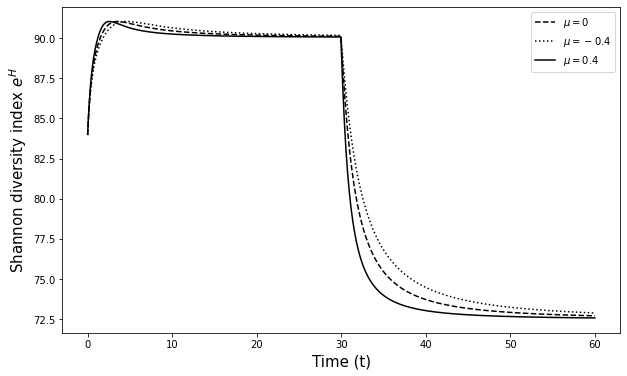
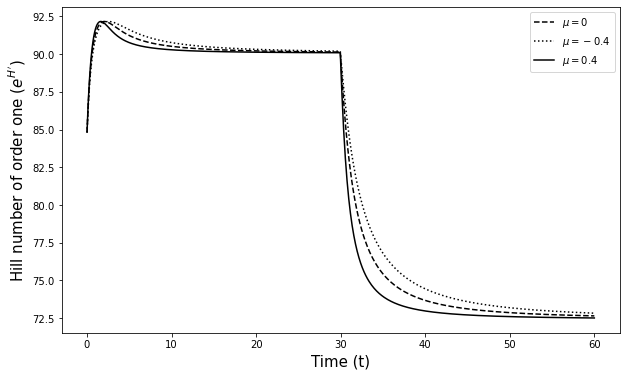
additional_file: figure10

diff --git a/Code/figure10.py b/Code/figure10.py
@@ -1,0 +1,84 @@
+# -*- coding: utf-8 -*-
+"""
+@author: Maxime Clenet
+
+Theoretical approximation versus empirical simulations of the Hill
+number of order 1. 
+"""
+
+
+# Importations of the main packages and functions:
+
+import numpy as np
+import matplotlib.pyplot as plt
+from functions import theoretical_hill_lcp, final_function
+
+# %%
+# Choice of the initial condition:
+n = 100  # Dimension
+MC_PREC = 100  # Number of MC experiments
+MC_ALPHA = 20
+
+
+init_alpha = np.linspace(1.5, 3, MC_ALPHA)
+
+emp_hill = np.zeros(MC_ALPHA)
+theo_hill = np.zeros(MC_ALPHA)
+
+compt = 0
+for alpha in init_alpha:
+    print(alpha)
+    S_emp = 0
+    for j in range(MC_PREC):
+        B = np.random.randn(n, n)/(np.sqrt(n)*alpha)
+        S_emp += theoretical_hill_lcp(B)
+    emp_hill[compt] = S_emp/MC_PREC
+    x = final_function(alpha=alpha, mu=0)
+
+    theo_hill[compt] = n*x[0]/2*(3-(x[2]/x[1])**2)
+    compt += 1
+
+
+fig = plt.figure(1, figsize=(10, 6))
+plt.xlabel(r"Interaction strength ($\alpha$)", fontsize=15)
+plt.ylabel(r"Hill number of order one ($e^{H'}$)", fontsize=15)
+plt.plot(init_alpha, emp_hill, color='k', linestyle='--', label=r"Empirical")
+plt.plot(init_alpha, theo_hill, color='k', linestyle=':', label=r"Theoretical")
+plt.legend(loc='lower right')
+plt.show()
+
+
+# %%
+
+# Choice of the initial condition:
+n = 100  # Dimension
+MC_PREC = 100  # Number of MC experiments
+MC_MU = 20
+
+
+init_mu = np.linspace(-0.4, 0.4, MC_MU)
+
+emp_hill_mu = np.zeros(MC_MU)
+theo_hill_mu = np.zeros(MC_MU)
+alpha = 2
+compt = 0
+for mu in init_mu:
+    S_emp = 0
+    for j in range(MC_PREC):
+        B = np.random.randn(n, n)/(np.sqrt(n)*alpha)+mu/n
+        S_emp += theoretical_hill_lcp(B)
+    emp_hill[compt] = S_emp/MC_PREC
+    x = final_function(alpha=2, mu=mu)
+
+    theo_hill[compt] = n*x[0]/2*(3-(x[2]/x[1])**2)
+    compt += 1
+
+
+fig = plt.figure(1, figsize=(10, 6))
+plt.xlabel(r"Interaction drift ($\mu$)", fontsize=15)
+plt.ylabel(r"Hill number of order one ($e^{H'}$)", fontsize=15)
+plt.plot(init_alpha, emp_hill, color='k', linestyle='--', label=r"Empirical")
+plt.plot(init_alpha, theo_hill, color='k', linestyle=':', label=r"Theoretical")
+plt.legend(loc='upper right')
+plt.ylim(80, 95)
+plt.show()

diff --git a/Code/figure9.py b/Code/figure9.py
@@ -48,7 +48,7 @@ x = np.linspace(0, NBR_IT*TAU, NBR_IT)  # x-axis
 
 fig = plt.figure(1, figsize=(10, 6))
 plt.xlabel("Time (t)", fontsize=15)
-plt.ylabel(r"Shannon diversity index $e^H$", fontsize=15)
+plt.ylabel(r"Hill number of order one ($e^{H'}$)", fontsize=15)
 plt.plot(x, hill, color='k', linestyle='--', label=r"$\mu = 0$")
 plt.plot(x, hill_neg, color='k', linestyle=':', label=r"$\mu = -0.4$")
 plt.plot(x, hill_pos, color='k', label=r"$\mu = 0.4$")
@@ -87,7 +87,7 @@ x = np.linspace(0, NBR_IT*TAU, NBR_IT)  # x-axis
 
 fig = plt.figure(1, figsize=(10, 6))
 plt.xlabel("Time (t)", fontsize=15)
-plt.ylabel(r"Shannon diversity index $e^H$", fontsize=15)
+plt.ylabel(r"Hill number of order one ($e^{H'})$", fontsize=15)
 plt.plot(x, hill_mean, color='k', linestyle='-', label=r"$mean$")
 plt.plot(x, hill_up, color='k', linestyle='--', label=r"$q(0.95)$")
 plt.plot(x, hill_down, color='k', linestyle=':', label=r"$q(0.05)$")
